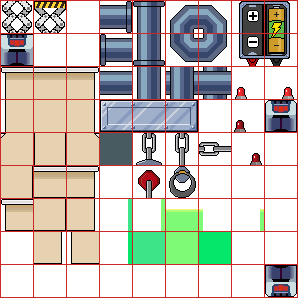
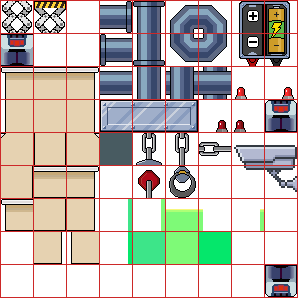
push de fin mdr c faux

Changed region(s): [[0.7852, 0.4832, 0.9966, 0.6342], [0.7248, 0.3926, 0.7852, 0.453]]

diff --git a/src/Tableau1.js b/src/Tableau1.js
@@ -5,6 +5,7 @@ class Tableau1 extends Phaser.Scene {
 
         this.load.image('pile','assets/Pile.png');
         this.load.image('ListrikP','assets/ListrikP.png');
+        this.load.image('ListrikBAtt','assets/ListrikBAtt.png');
         this.load.image('grab','assets/grab.png');
         this.load.image('hook','assets/hook.png');
         this.load.image('levieroff','assets/levieroff.png');
@@ -12,14 +13,18 @@ class Tableau1 extends Phaser.Scene {
         this.load.image('door','assets/porte2.png');
         this.load.image('genD','assets/gendown.png');
         this.load.image('genU','assets/genup.png');
-        this.load.image('tuto2','assets/TutoAnim/tutomenu.png');
         this.load.image('platmove','assets/Platmove.png');
         this.load.image('platmove12','assets/Platmove-12.png');
         this.load.image('platmove3','assets/Platmove-3.png');
         this.load.image('UpgradeNoItem','assets/upgrade/UpgradeNoItem.png');
 
+
+        this.load.image('testpres','assets/presentation/test.png');
+
         this.load.spritesheet('ListrikWalk','assets/WalkA.png',{frameWidth: 64, frameHeight: 64});
+        this.load.spritesheet('walkbatt','assets/WalkABatt.png',{frameWidth: 64, frameHeight: 64});
         this.load.spritesheet('ListrikDieBat','assets/DieBat.png',{frameWidth: 64, frameHeight: 64});
+        this.load.spritesheet('ListrikDie','assets/Die.png',{frameWidth: 64, frameHeight: 64});
 
         // chargement tilemap
         this.load.image("tilemap", "assets/Map_TR/TestroomTiled.png");
@@ -34,6 +39,10 @@ class Tableau1 extends Phaser.Scene {
 
         for (let m=1;m<=8;m++){
             this.load.image('tutoMenuStart-'+m,'assets/TutoAnim/tutomenu'+m+'.png')
+        }
+
+        for (let m=1;m<=20;m++){
+            this.load.image('menuEND-'+m,'assets/TutoAnim/menuEND'+m+'.png')
         }
 
         for (let m=1;m<=5;m++){
@@ -66,7 +75,7 @@ class Tableau1 extends Phaser.Scene {
         this.taillePile = 32;
         this.coorDoorx = 0;
         this.genup = false;
-        this.isgrab = false;
+        this.cantMove = false;
         this.upgradeL = false;
         this.move8 = false;
         this.move9 = false;
@@ -103,6 +112,8 @@ class Tableau1 extends Phaser.Scene {
         this.bglevier.setImmovable(true);
         this.bglevier.play('tutoLevier');
 
+
+
         // Création du BG
         this.bgmenu = this.physics.add.sprite(-1344, 0,'cube').setOrigin(0, 0);
         this.bgmenu.body.setAllowGravity(false)
@@ -127,6 +138,12 @@ class Tableau1 extends Phaser.Scene {
         this.bggrab.body.setAllowGravity(false)
         this.bggrab.setImmovable(true);
         this.bggrab.play('Tutograb');
+
+        // Création du BG de fin
+        this.bgmenuend = this.physics.add.sprite(9664, 2336,'cube').setOrigin(0, 0);
+        this.bgmenuend.body.setAllowGravity(false)
+        this.bgmenuend.setImmovable(true);
+        this.bgmenuend.play('menuEND');
 
         // Création de la target pour la camera
         this.pile = this.physics.add.sprite(800, 800,'pile').setOrigin(0, 0);
@@ -155,7 +172,10 @@ class Tableau1 extends Phaser.Scene {
             this.collide.add(this.collideSprite)
         });
 
-
+        // Création du BG
+        this.testbg = this.physics.add.sprite(-1376, 0,'testpres').setOrigin(0, 0);
+        this.testbg.body.setAllowGravity(false)
+        this.testbg.setImmovable(true);
 
         const cam = map.getObjectLayer('cam')
             cam.objects.forEach(objData=> {
@@ -740,6 +760,7 @@ class Tableau1 extends Phaser.Scene {
         this.Tweengestion()
 
         this.cameras.main.setRoundPixels(true);
+
     }
 
     stop(platforme){
@@ -767,14 +788,14 @@ class Tableau1 extends Phaser.Scene {
 
 
                     case Phaser.Input.Keyboard.KeyCodes.Q:
-                        if(me.isgrab === false) {
+                        if(me.cantMove === false) {
                             me.turn = true;
                             me.player.moveLeft();
                         }
                         break;
 
                     case Phaser.Input.Keyboard.KeyCodes.D:
-                        if(me.isgrab === false) {
+                        if(me.cantMove === false) {
                             me.turn = false;
                             me.player.moveRight();
                         }
@@ -789,16 +810,16 @@ class Tableau1 extends Phaser.Scene {
 
                     case Phaser.Input.Keyboard.KeyCodes.SPACE:
 
-                        if(me.isgrab === false && me.player.player.body.onFloor()){
+                        if(me.cantMove === false && me.player.player.body.onFloor()){
                             me.player.jump();
                         }else{
-                            me.isgrab = false;
+                            me.cantMove = false;
                         }
 
                         break;
 
                     case Phaser.Input.Keyboard.KeyCodes.E:
-                        if(me.isgrab === false) {
+                        if(me.cantMove === false) {
                             me.GestionEvent(me.player.player);
                         }
                         break;
@@ -814,6 +835,15 @@ class Tableau1 extends Phaser.Scene {
     }
 
     FuntionAnim(){
+
+        this.anims.create({
+            key: 'Die',
+            frames: this.anims.generateFrameNames('ListrikDie', {
+                start: 0,
+                end: 14,
+            }),
+            frameRate: 10,
+            repeat: -1});
 
         this.anims.create({
             key: 'supp',
@@ -850,6 +880,33 @@ class Tableau1 extends Phaser.Scene {
                 {key:'upgrade-6'},
                 {key:'upgrade-7'},
                 {key:'upgrade-8'},
+            ],
+            frameRate: 5,
+            repeat: -1});
+
+        this.anims.create({
+            key: 'menuEND',
+            frames: [
+                {key:'menuEND-1'},
+                {key:'menuEND-2'},
+                {key:'menuEND-3'},
+                {key:'menuEND-4'},
+                {key:'menuEND-5'},
+                {key:'menuEND-6'},
+                {key:'menuEND-7'},
+                {key:'menuEND-8'},
+                {key:'menuEND-9'},
+                {key:'menuEND-10'},
+                {key:'menuEND-11'},
+                {key:'menuEND-12'},
+                {key:'menuEND-13'},
+                {key:'menuEND-14'},
+                {key:'menuEND-15'},
+                {key:'menuEND-16'},
+                {key:'menuEND-17'},
+                {key:'menuEND-18'},
+                {key:'menuEND-19'},
+                {key:'menuEND-20'},
             ],
             frameRate: 5,
             repeat: -1});
@@ -956,18 +1013,30 @@ class Tableau1 extends Phaser.Scene {
     }
 
     KillBox(){
-        this.player.player.x = this.currentSaveX + 40;
-        this.player.player.y = this.currentSaveY;
-        this.pile.X = this.currentSaveX + 40;
-        this.pile.y = this.currentSaveY;
-        Battery = this.chargeMax;
-        this.pile.setVisible(true);
-        this.player.player.body.setAllowGravity(true);
+        this.scene.cantMove=true;
+        this.player.player.play('Die', true);
+        Battery = 0.5;
+        this.Reset = this.time.addEvent({
+            delay: 1200,
+            callback: ()=>{
+                this.cantMove=false;
+                this.player.player.play('Idle', true);
+                this.player.player.x = this.currentSaveX + 40;
+                this.player.player.y = this.currentSaveY;
+                this.pile.X = this.currentSaveX + 40;
+                this.pile.y = this.currentSaveY;
+                Battery = this.chargeMax;
+                this.pile.setVisible(true);
+                this.player.player.body.setAllowGravity(true);
 
-        this.act5.setVelocity(0);
-        this.act5.x = 5600;
-        this.platmove5.x = 5600;
-        this.platmove5.setVelocity(0);
+                this.act5.setVelocity(0);
+                this.act5.x = 5600;
+                this.platmove5.x = 5600;
+                this.platmove5.setVelocity(0);
+            },
+            loop: false,
+        })
+
     }
 
     actiongrab(grappin,grab){
@@ -981,14 +1050,14 @@ class Tableau1 extends Phaser.Scene {
     }
 
     miss(){
-        this.isgrab = false;
+        this.cantMove = false;
         this.grappin.setVelocity(0);
         this.grappin.setVisible(false);
         this.grappin.body.setEnable(false);
     }
 
     gravite(){
-        if(this.isgrab === true){
+        if(this.cantMove === true){
             this.player.player.setVelocity(0)
         }else{
             this.player.player.setVelocity(0)
@@ -1436,7 +1505,7 @@ class Tableau1 extends Phaser.Scene {
             if(this.upgradeL === true) {
                 this.up.setTexture("UpgradeNoItem")
                 if(game.input.activePointer.leftButtonDown() === true){
-                    this.isgrab = true
+                    this.cantMove = true
                     this.grappin.setVelocity(0);
                     this.grappin.setVisible(true);
                     this.grappin.x = this.player.player.x;

diff --git a/src/Player.js b/src/Player.js
@@ -4,6 +4,7 @@ class Player {
         this.scene = scene
         this.cameras = scene
         this.player = this.scene.physics.add.sprite(-672+32, 192, 'ListrikP');
+        //this.player = this.scene.physics.add.sprite(9664, 2336, 'ListrikP');
         this.player.setBounce(0);
         this.player.setCollideWorldBounds(false);
         this.chargeMax = 1800;
@@ -21,13 +22,42 @@ class Player {
         });
 
         this.scene.anims.create({
+            key: 'walkbatt',
+            frames: this.scene.anims.generateFrameNames('walkbatt', {
+                start: 0,
+                end: 9,
+            }),
+            frameRate: 10,
+            repeat: -1
+        });
+
+        this.scene.anims.create({
             key: 'Idle',
             frames: [
                 {key:'ListrikP'},
             ],
             frameRate: 10,
             repeat: -1});
+
+        this.scene.anims.create({
+            key: 'Idlebatt',
+            frames: [
+                {key:'ListrikBAtt'},
+            ],
+            frameRate: 10,
+            repeat: -1});
+
+            this.scene.anims.create({
+            key: 'DieBat',
+            frames: this.scene.anims.generateFrameNames('ListrikDieBat', {
+                start: 0,
+                end: 22,
+            }),
+            frameRate: 10,
+            repeat: -1});
     }
+
+
 
     jump(){
         if(this.scene.takeBat === true){
@@ -43,6 +73,10 @@ class Player {
         if (this.scene.takeBat === true) {
             this.player.setVelocityX(200);
             this.player.setFlipX(false);
+            if (this.player.body.onFloor()) {
+                this.player.play('walkbatt', true);
+                this.player.setOffset(16,0);
+            }
 
         } else { // gros con :)
             this.player.setVelocityX(300);
@@ -57,8 +91,10 @@ class Player {
         if(this.scene.takeBat === true){
             this.player.setVelocityX(-200);
             this.player.setFlipX(true);
-
-
+            if (this.player.body.onFloor()) {
+                this.player.play('walkbatt', true);
+                this.player.setOffset(16,0);
+            }
         }else{
             this.player.setVelocityX(-300);
             this.player.setFlipX(true);
@@ -72,7 +108,7 @@ class Player {
     stop(){
         if(this.scene.takeBat === true){
             this.player.setVelocityX(0);
-            this.player.play('Idle', true);
+            this.player.play('Idlebatt', true);
 
         }else{
             this.player.setVelocityX(0);
@@ -97,19 +133,30 @@ class Player {
             //console.log("perd de la battery  "+this.Battery)
         }
 
-        if(Battery  < 0){
-            this.player.x = this.scene.currentSaveX;
-            this.player.y = this.scene.currentSaveY;
-            this.scene.pile.X = this.scene.currentSaveX;
-            this.scene.pile.y = this.scene.currentSaveY;
-            this.player.body.setAllowGravity(true);
-            Battery = this.chargeMax;
-            this.scene.pile.setVisible(true);
+        if(Battery  === 0){
+            this.scene.cantMove=true;
+            this.player.play('DieBat', true);
+            Battery = 0.5;
+            this.Reset = this.scene.time.addEvent({
+                delay: 2200,
+                callback: ()=>{
+                    this.scene.cantMove=false;
+                    this.player.play('Idle', true);
+                    this.player.x = this.scene.currentSaveX;
+                    this.player.y = this.scene.currentSaveY;
+                    this.scene.pile.X = this.scene.currentSaveX;
+                    this.scene.pile.y = this.scene.currentSaveY;
+                    this.player.body.setAllowGravity(true);
+                    Battery = this.chargeMax;
+                    this.scene.pile.setVisible(true);
+                    this.scene.act5.setVelocity(0);
+                    this.scene.act5.x = 5600;
+                    this.scene.platmove5.x = 5600;
+                    this.scene.platmove5.setVelocity(0);
+                },
+                loop: false,
+            })
 
-            this.scene.act5.setVelocity(0);
-            this.scene.act5.x = 5600;
-            this.scene.platmove5.x = 5600;
-            this.scene.platmove5.setVelocity(0);
         }
     }
 

diff --git a/src/main.js b/src/main.js
@@ -10,7 +10,6 @@ let gameConfig = {
         default: 'arcade',
         arcade: {
             gravity: { y: 986},
-            //debug : true,
             fps : 160
         }
     },
